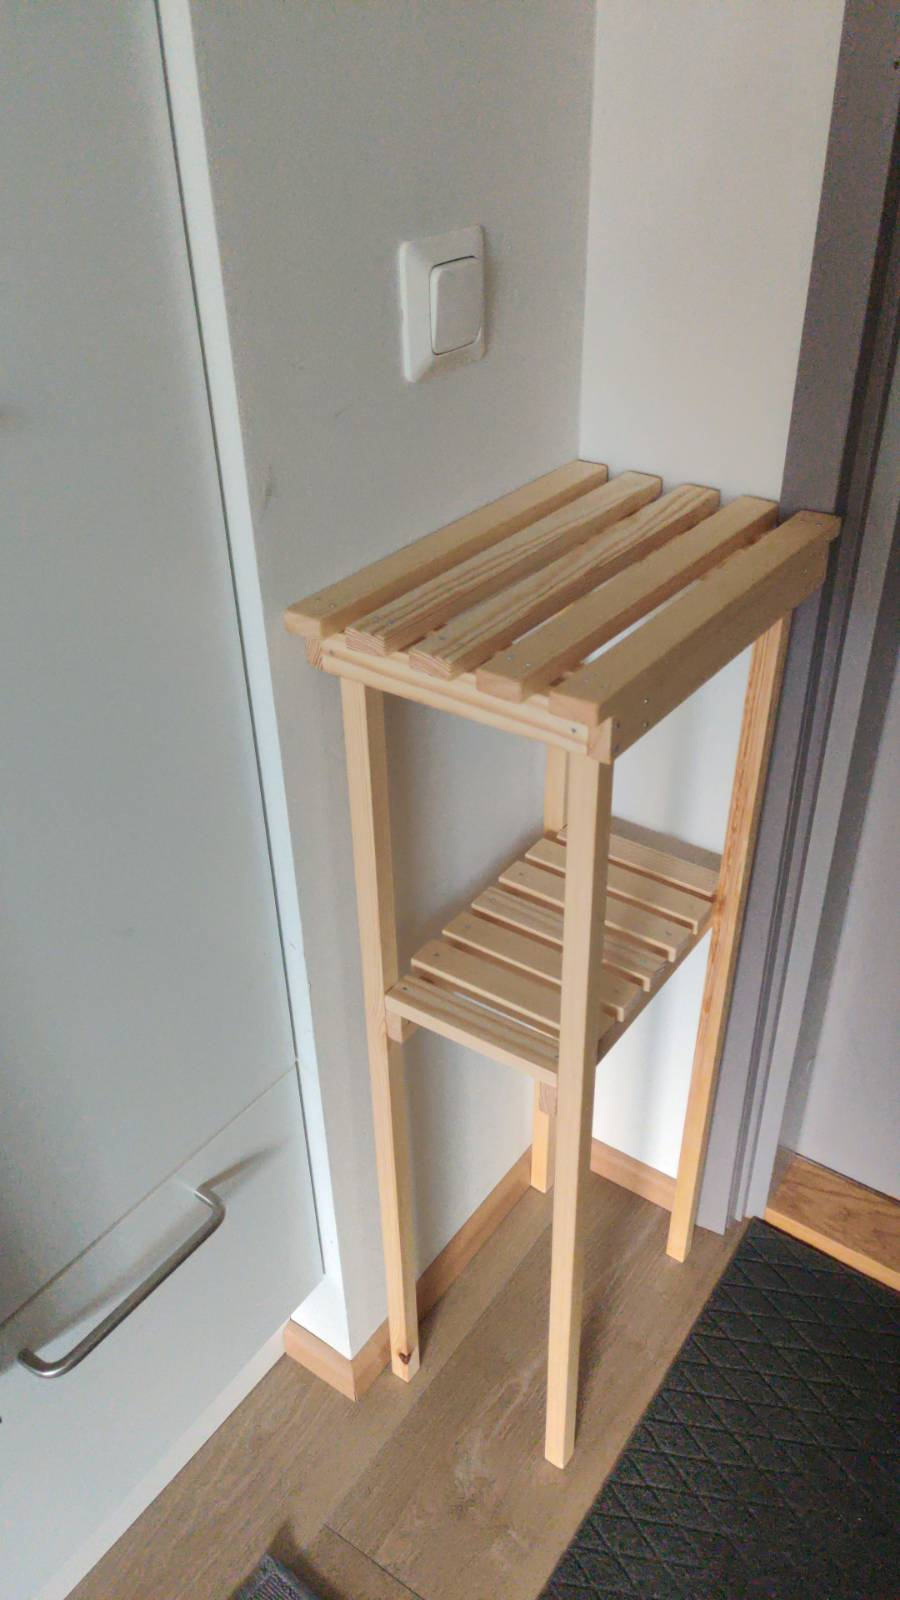
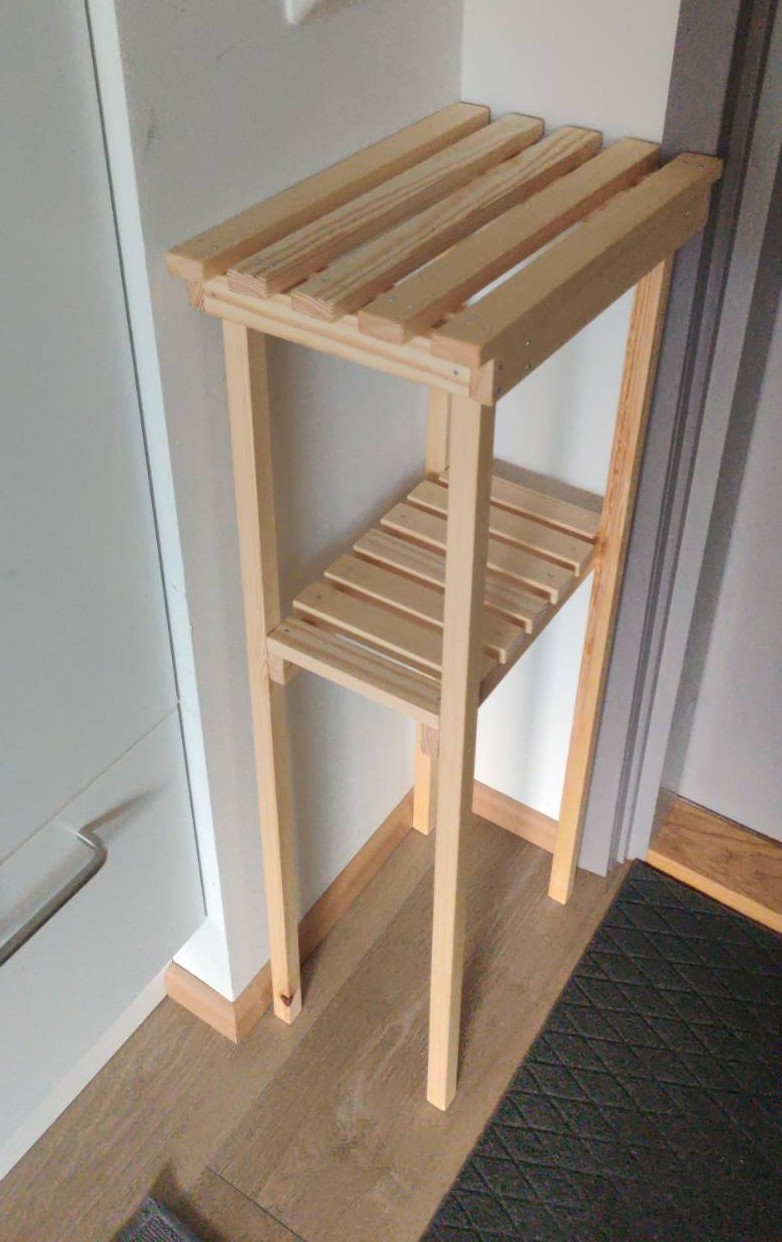
Fix crafts page

diff --git a/website-app/src/views/HandiworkView.vue b/website-app/src/views/HandiworkView.vue
@@ -6,21 +6,25 @@
 				<img src="/src/assets/images/iconofrock.jpeg" id="website-icon" />
 			</div>
 			<div>
-				<h2 class=" page-header">Handiwork</h2>
+				<h2 class=" page-header">Handywork</h2>
 			</div>
 			<Navbars />
 		</div>
-		<div id="main-content">
-			<div v-for=" ( item, index ) in stories " :key="index">
-				<div class="content-container-single-col">
+		<div class="crafts-container">
+			<div class="left-panel">
+				<h2 class="covered-by-your-grace-regular">Behold, my handiwork.</h2>
+			</div>
+			<div>
+				<div v-for=" ( item, index ) in stories " :key="index" class="crafts-item">
 					<div>
 						<h2>{{ item.header }}</h2>
-						<img v-for=" image in getImages( item ) " :key="image" :src="image">
-						<div>
-							<div v-for=" paragraph in formatText( item.text ) " :key="paragraph">
-								<p>{{ paragraph }}</p>
-							</div>
+						<div v-for=" ( paragraph, paragraphIndex ) in formatText( item.text ) " :key="paragraphIndex">
+							<p>{{ paragraph }}</p>
 						</div>
+					</div>
+					<div class="right-panel">
+						<img v-for=" ( image, imageIndex ) in item.images " :key="imageIndex" :src="image"
+							:alt="item.header" class="photo-item">
 					</div>
 				</div>
 			</div>
@@ -29,37 +33,13 @@
 </template>
 
 <script setup>
-import { ref, onMounted } from 'vue'
+import { ref } from 'vue'
 import Navbars from '@/components/Navbars.vue'
-import PillowText from '../textfiles/crafts/pillow.txt?raw'
-import ShelfText from '../textfiles/crafts/shelf.txt?raw'
-import WrenchText from '../textfiles/crafts/wrench.txt?raw'
+import storiesData from '../textfiles/crafts.json'
 
-const stories = ref( [
-	{ header: 'Wrench Holder', text: '', image1: '', image2: '', },
-	{ header: 'Tiny Shelf', text: '', image1: '', image2: '', },
-	{ header: 'Pillow', text: '', image1: '', image2: '', },
-
-] )
-
-onMounted( () => {
-	stories.value[0].text = WrenchText;
-	stories.value[0].image1 = '/src/assets/images/Crafts/1556.jpg';
-
-	stories.value[1].text = ShelfText;
-	stories.value[1].image1 = '/src/assets/images/Crafts/shelf1.jpg';
-	stories.value[1].image2 = '/src/assets/images/Crafts/shelf2.jpg';
-
-	stories.value[2].text = PillowText;
-	stories.value[2].image1 = '/src/assets/images/Crafts/skirt.jpg';
-} )
+const stories = ref( storiesData )
 
 const formatText = ( text ) => {
-	const paragraphs = text.split( '\n' );
-	return paragraphs;
-}
-
-const getImages = ( item ) => {
-	return [item.image1, item.image2].filter( image => image && image !== '' );
+	return text.split( '\n' )
 }
 </script>

diff --git a/website-app/src/index.css b/website-app/src/index.css
@@ -40,8 +40,13 @@
   margin: .5rem;
 }
 
-#left-panel {
+#left-panel,
+.left-panel {
   border-right: var(--dotted-border);
+}
+
+.left-panel {
+  padding: .5rem;
 }
 
 #right-panel {
@@ -88,7 +93,18 @@
 .photos-container {
   display: grid;
   grid-template-columns: 12rem auto;
-  padding: .5rem;
+}
+
+.crafts-container {
+  display: grid;
+  grid-template-columns: auto auto;
+}
+
+.crafts-item {
+  display: grid;
+  grid-template-columns: auto auto;
+  gap: 1rem;
+  padding: 2rem 1rem;
 }
 
 #calendar {
@@ -167,7 +183,8 @@ h3,
 #interests,
 .bio,
 .recipes-container,
-.oldman {
+.oldman,
+.crafts-item {
   border-bottom: var(--dotted-border);
 }
 
@@ -562,6 +579,10 @@ nav {
     grid-template-columns: 6rem auto 6rem;
   }
 
+  .recipes-container {
+    grid-template-columns: auto;
+  }
+
   .portrait-image>img {
     width: 6rem;
   }
@@ -674,5 +695,9 @@ nav {
 
   .photo-item {
     max-width: 13rem;
+  }
+
+  .crafts-item {
+    grid-template-columns: auto;
   }
 }
